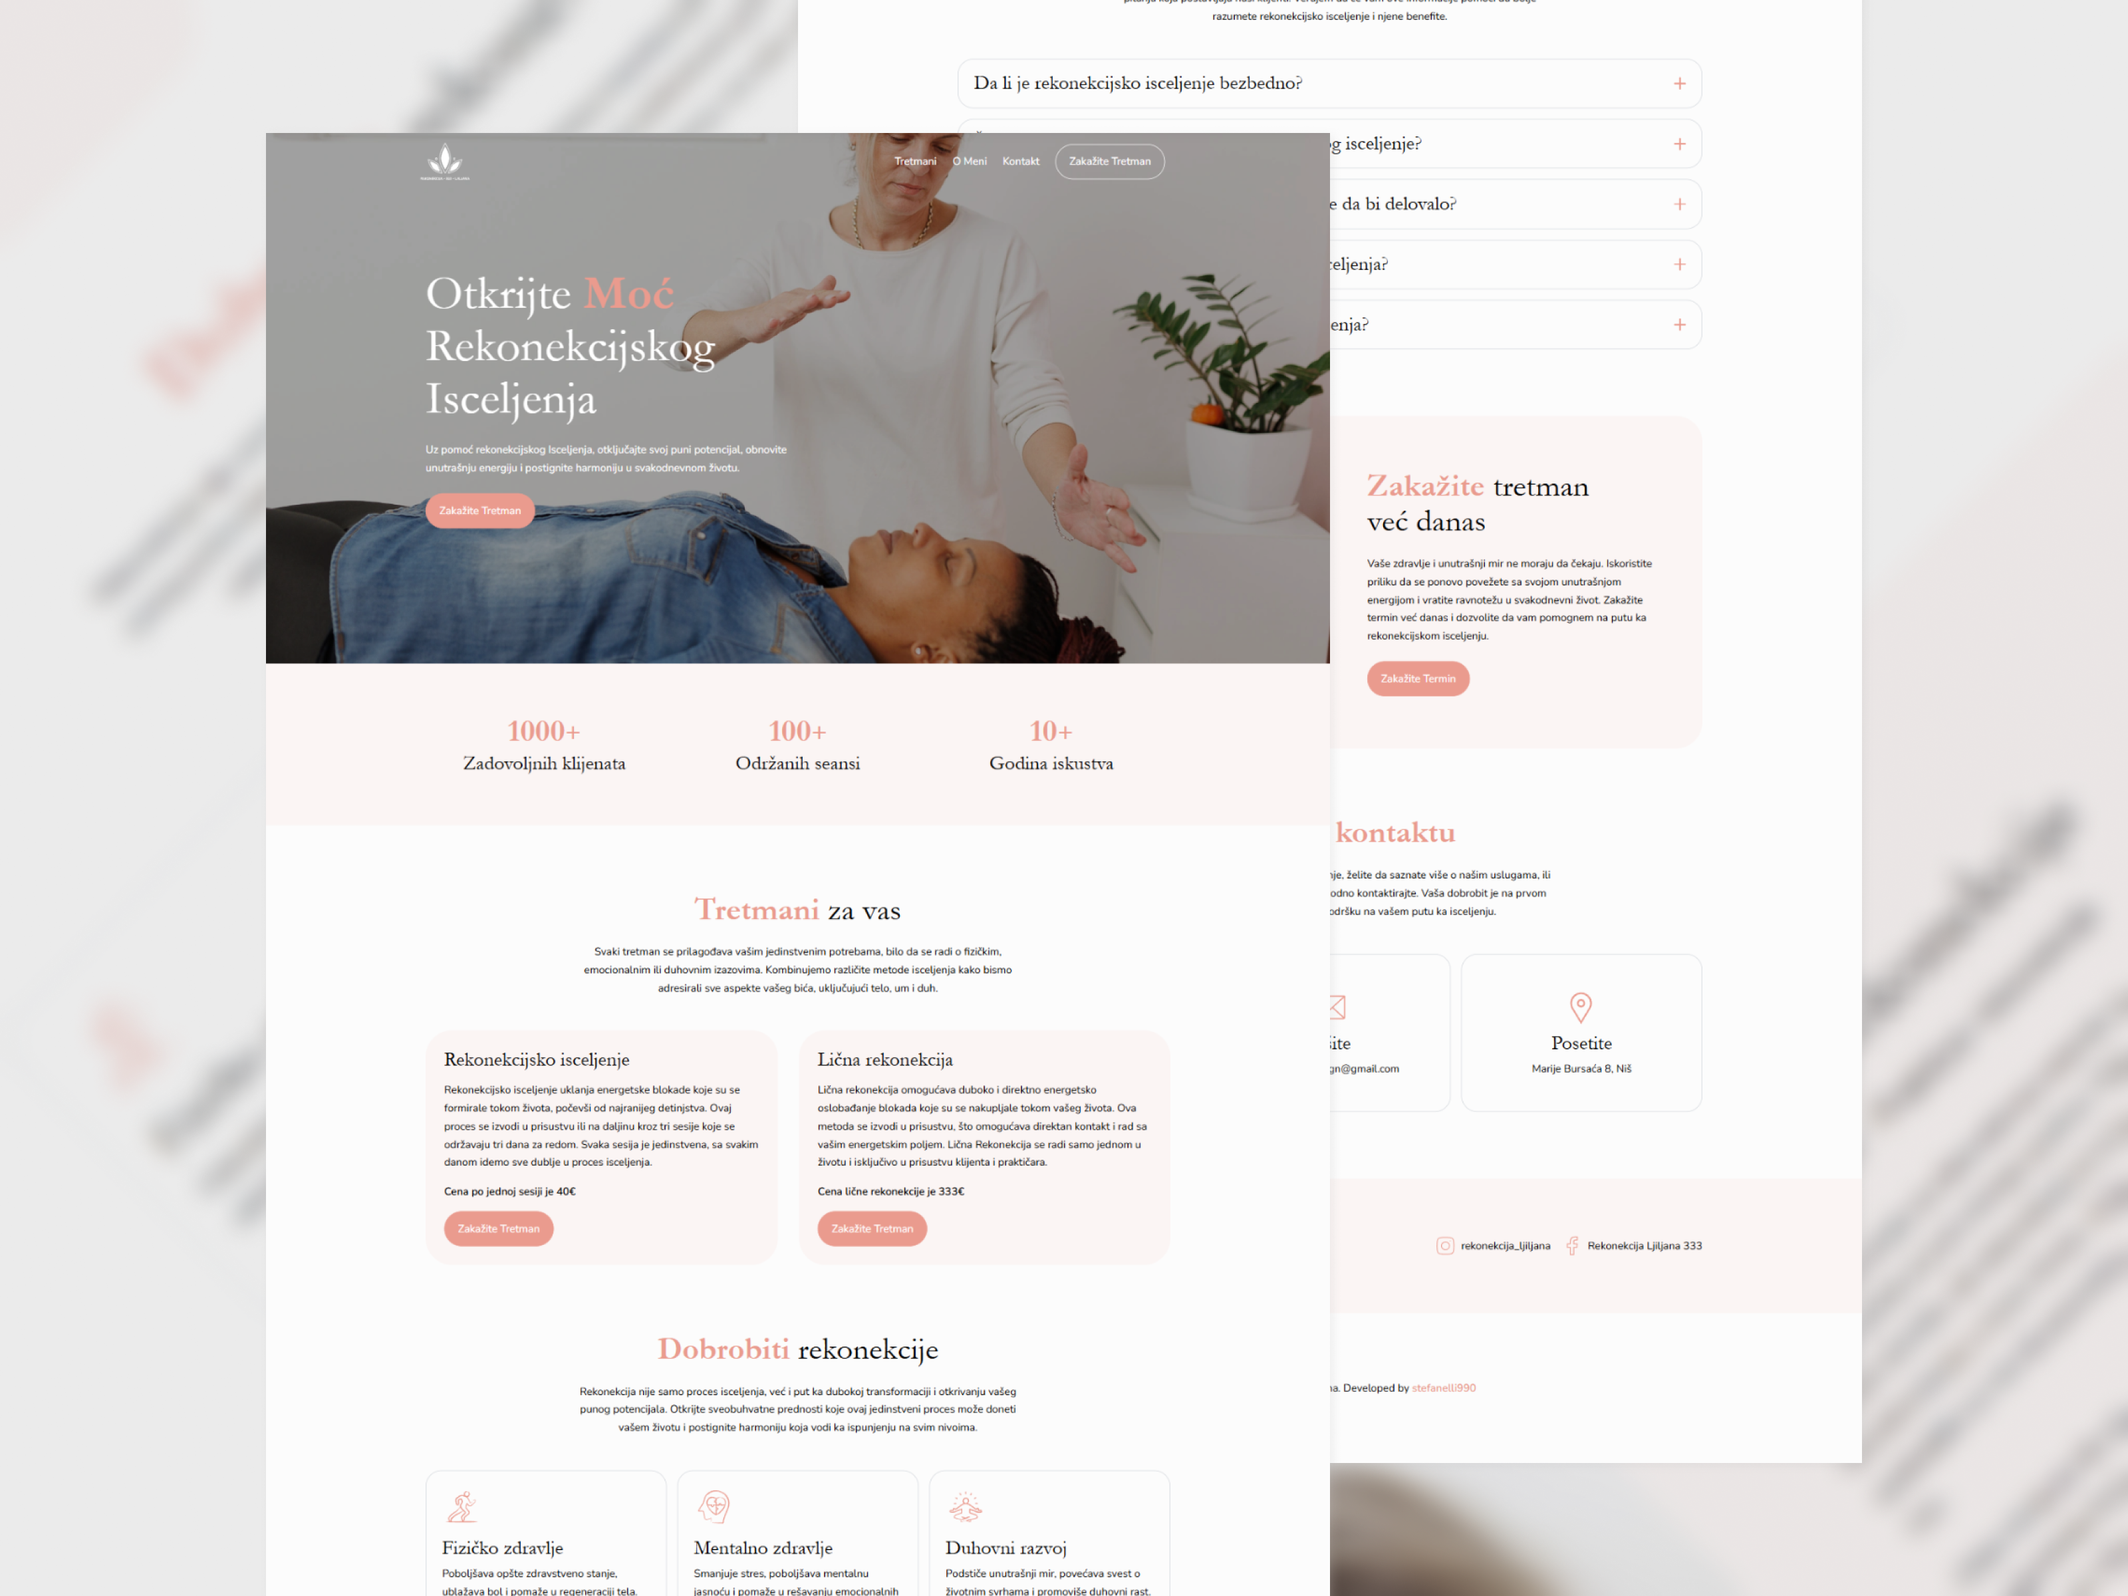
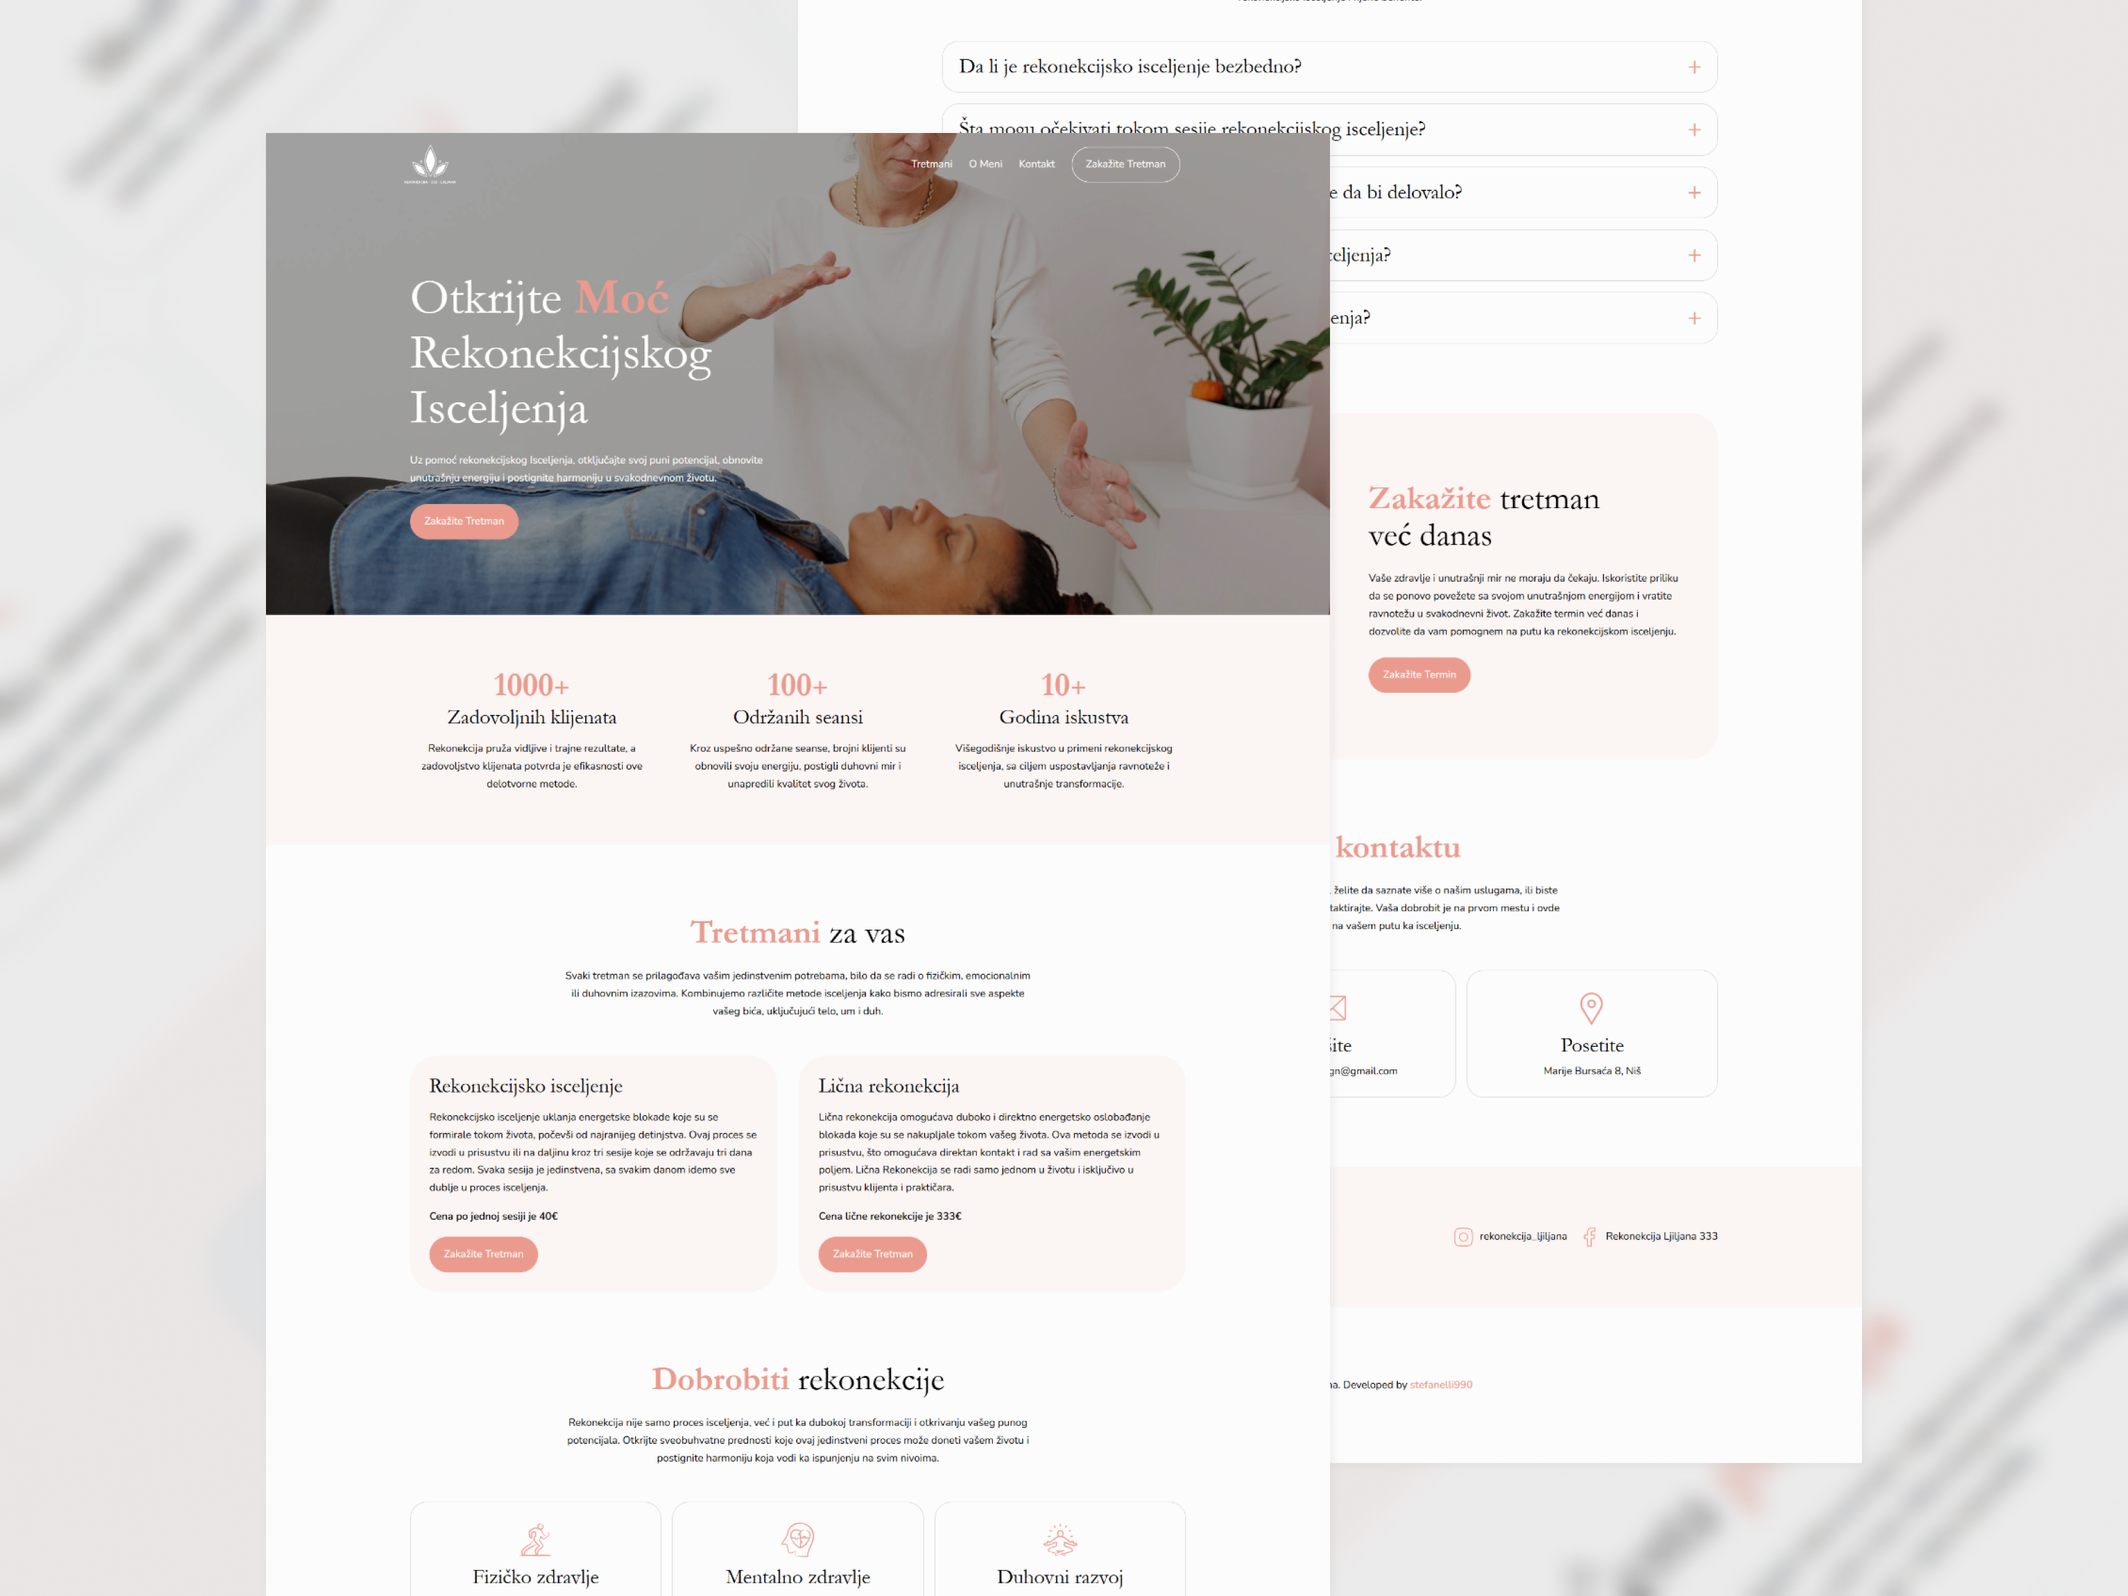
fixed responsive

diff --git a/src/components/Navbar.jsx b/src/components/Navbar.jsx
@@ -1,30 +1,31 @@
 // Navbar jsx
 
+import logoImg from '../../public/logo-white.svg';
 import { navLinks } from "../data";
 
-export default function Navbar({ navbarClasses, logoStyle, navLinkClasses, btnClasses, hamburgerClasses, openMenu, isOpen, scrolled }) {
+export default function Navbar({ openMenu, isOpen }) {
 
   return (
-    <header className={`inset-x-0 z-10 duration-300 ${navbarClasses} ${scrolled ? "translate-y-0" : "-translate-y-full"}`}>
+    <header className="absolute inset-x-0 z-10">
         <div className="wrapper flex justify-between items-center mx-auto py-4">
                 <a href={"#hero"} className="cursor-pointer" aria-label="Go to Hero section">
-                <img className="w-[75px]" src={logoStyle} alt="Rekonekcija 333 Ljiljana Logo"/>
+                <img className="w-[75px]" src={logoImg} alt="Rekonekcija 333 Ljiljana Logo"/>
                 </a>
                 <nav>
-                <ul className={`hidden sm:flex space-x-6 items-center ${navLinkClasses}`}>
+                <ul className={`hidden sm:flex space-x-6 items-center`}>
                     {navLinks.map((navLink, index) => (
                     <li key={index}>
                         <a
                         href={`#${navLink.to}`}
                         aria-label={navLink.ariaLabel}
-                        className={`cursor-pointer  hover:text-primaryColor duration-200`}
+                        className="cursor-pointer text-white hover:text-primaryColor duration-200"
                         >
                         {navLink.name}
                         </a>
                     </li>
                     ))}
                     <li>
-                    <a href="tel:+381691162977" className={`btn ${btnClasses}`}>zakažite tretman</a>
+                    <a href="tel:+381691162977" className="btn btn-outline">zakažite tretman</a>
                     </li>
                 </ul>
                 </nav>
@@ -34,9 +35,9 @@ export default function Navbar({ navbarClasses, logoStyle, navLinkClasses, btnCl
                 aria-label="Toggle menu"
                 onClick={openMenu}
             >
-                <div className={`w-8 h-[2px] rounded-full transition-transform duration-300 ${hamburgerClasses} ${isOpen ? "rotate-45 translate-y-2.5" : ""}`}></div>
-                <div className={`w-8 h-[2px] rounded-full transition-transform duration-300 ${hamburgerClasses} ${isOpen ? "opacity-0" : ""}`}></div>
-                <div className={`w-8 h-[2px] rounded-full transition-transform duration-300 ${hamburgerClasses} ${isOpen ? "-rotate-45 -translate-y-2.5" : ""}`}></div>
+                <div className={`w-8 h-[2px]  rounded-full transition-transform duration-300 ${isOpen ? "rotate-45 translate-y-2.5 bg-darkColor" : "bg-white"}`}></div>
+                <div className={`w-8 h-[2px]  rounded-full transition-transform duration-300 ${isOpen ? "opacity-0 bg-darkColor" : "bg-white"}`}></div>
+                <div className={`w-8 h-[2px]  rounded-full transition-transform duration-300 ${isOpen ? "-rotate-45 -translate-y-2.5 bg-darkColor" : "bg-white"}`}></div>
             </button>
         </div>
     </header>

diff --git a/src/data.js b/src/data.js
@@ -16,25 +16,8 @@ export const navLinks = [
     { name: "Kontakt", to: "kontakt" },
   ];
 
-export const reconnection = [
-    {
-      reconnectionTitle: "Pojam rekonekcije",
-      reconnectionDesc:
-        "Rekonekcija je metoda energetskog isceljenja koju je razvio Erik Perl. Ova tehnika se fokusira na ponovnu povezanost sa univerzalnom energijom i vraćanje tela u stanje ravnoteže i zdravlja. Prema ovoj metodi, rekonekcija omogućava telo da se prilagodi višoj frekvenciji energije, što može dovesti do fizičkog, mentalnog i duhovnog isceljenja.",
-      
-      alt: "Photo Shooting image",
-    },
-    {
-      reconnectionTitle: "Delovanje rekonekcije",
-      reconnectionDesc:
-        "Tokom sesije rekonekcije, koriste se specifične energetske frekvencije  kako bi podstakao vaš proces isceljenja. Ove frekvencije deluju na otklanjanju energetskih blokada i omogućavaju vam dublju povezanost sa univerzumom i vašom unutrašnjom prirodom. Sesije su neinvazivne i mogu se obavljati i uživo i na daljinu.",
-     
-      alt: "Video Shooting image",
-    },
-  ];
-
 export const counter = [
-  { counterNumber: 1000, counterTitle: 'Zadovoljnih klijenata', counterDesc: 'Rekonekcija donosi vidljive rezultate, a zadovoljstvo klijenata potvrda je efikasnosti metode.'},
+  { counterNumber: 1000, counterTitle: 'Zadovoljnih klijenata', counterDesc: 'Rekonekcija pruža vidljive i trajne rezultate, a zadovoljstvo klijenata potvrda je efikasnosti ove delotvorne metode.'},
   { counterNumber: 100, counterTitle: 'Održanih seansi', counterDesc: 'Kroz uspešno održane seanse, brojni klijenti su obnovili svoju energiju, postigli duhovni mir i unapredili kvalitet svog života.'},
   { counterNumber: 10, counterTitle: 'Godina iskustva', counterDesc: 'Višegodišnje iskustvo u primeni rekonekcijskog isceljenja, sa ciljem uspostavljanja ravnoteže i unutrašnje transformacije.'}
 ]  

diff --git a/src/App.jsx b/src/App.jsx
@@ -1,6 +1,6 @@
 // App.jsx
 
-import { useState, useEffect } from "react";
+import { useState } from "react";
 import Hero from "./components/Hero";
 import Treatmants from "./components/Treatmants";
 import Benefits from "./components/Benefits";
@@ -16,30 +16,7 @@ import Navbar from "./components/Navbar";
 
 
 function App() {
-  const [scrolled, setScrolled] = useState(false);
   const [isMenuOpen, setIsMenuOpen] = useState(false);
-
-  useEffect(() => {
-    const heroSection = document.getElementById("hero");
-
-    const handleScroll = () => {
-      const heroHeight = heroSection ? heroSection.offsetHeight : 0;
-      const scrollPosition = window.scrollY;
-  
-      // Check if the user has scrolled to within 100px from the end of the hero section
-      if (scrollPosition >= heroHeight - 100) {
-        setScrolled(true);
-      } else {
-        setScrolled(false);
-      }
-    };
-
-    window.addEventListener("scroll", handleScroll);
-
-    return () => {
-      window.removeEventListener("scroll", handleScroll);
-    };
-  }, []);
 
   // open menu
   const openMenu = () => {
@@ -52,10 +29,7 @@ function App() {
 
   return (
     <>
-      {!scrolled && (
-        <Navbar navbarClasses={'absolute'} logoStyle={'/logo-white.svg'} scrolled={true} navLinkClasses={'text-white'} btnClasses={'btn-outline'} hamburgerClasses={'bg-white'} openMenu={openMenu} isOpen={isMenuOpen}/>
-      )}
-      <Navbar navbarClasses={'fixed bg-offWhite shadow-navbar'} scrolled={scrolled} logoStyle={'/logo-primary.svg'} navLinkClasses={'text-darkColor'} btnClasses={'btn-primary'} hamburgerClasses={'bg-darkColor'} openMenu={openMenu} isOpen={isMenuOpen}/>
+      <Navbar openMenu={openMenu} isOpen={isMenuOpen}/>
       <Menu isOpen={isMenuOpen} closeMenu={closeMenu} />
       <main>
         <Hero />

diff --git a/src/components/Benefits.jsx b/src/components/Benefits.jsx
@@ -1,4 +1,5 @@
 import { benefits } from "../data";
+import Card from "./Card";
 import SectionTitle from "./SectionTitle";
 
 export default function Benefits() {
@@ -13,14 +14,7 @@ export default function Benefits() {
         </SectionTitle>
         <div className="grid sm:grid-cols-2 lg:grid-cols-3 gap-4">
           {benefits.map((item, index) => (
-            <div
-              className="text-center flex items-center flex-col sm:text-left sm:items-start border border-gray-300 rounded-3xl p-6"
-              key={index}
-            >
-              <img className="w-[60px]" src={item.benefitIcon} alt="" />
-              <h3 className="pt-4 pb-2">{item.benefitTitle}</h3>
-              <p>{item.benefitDesc}</p>
-            </div>
+            <Card key={index} icon={item.benefitIcon} title={item.benefitTitle} desc={item.benefitDesc}/>
           ))}
         </div>
       </div>

diff --git a/src/components/Hero.jsx b/src/components/Hero.jsx
@@ -5,7 +5,7 @@ export default function Hero() {
     <section id="hero" className="relative">
         <img className='absolute inset-0 w-full h-full object-cover -z-[2]' src={heroBg} alt="" />
         <div className="bg-black/35 absolute inset-0 -z-[1]"></div>
-        <div className="wrapper flex items-center text-center justify-center min-h-screen text-white sm:text-left sm:justify-start">
+        <div className="wrapper flex items-center min-h-screen text-white ">
             <div className="max-w-[400px] sm:max-w-[550px] sm:pt-[150px] sm:pb-[60px]">
                 <h1>Otkrijte <span className='text-primaryColor font-bold'>Moć</span> Rekonekcijskog Isceljenja</h1>
                 <p className="my-6">Uz pomoć rekonekcijskog Isceljenja, otključajte svoj puni potencijal, obnovite unutrašnju energiju i postignite harmoniju u svakodnevnom životu.</p>

diff --git a/src/components/Contact.jsx b/src/components/Contact.jsx
@@ -1,4 +1,5 @@
 import { contactInformations } from "../data";
+import Card from "./Card";
 import SectionTitle from "./SectionTitle";
 
 export default function Contact() {
@@ -12,11 +13,7 @@ export default function Contact() {
         </SectionTitle>
         <div className="grid md:grid-cols-3 gap-4">
           {contactInformations.map((item, index) => (
-            <a href={item.contactLink} key={index} className="space-y-2 text-center border border-gray-300 py-[50px] rounded-3xl">
-            <img className="inline" src={item.contactIcon} alt="" />
-            <h3>{item.contactTitle}</h3>
-            <p>{item.contactInformation}</p>
-          </a>
+          <Card key={index} link={item.contactLink} icon={item.contactIcon} title={item.contactTitle} desc={item.contactInformation}/>
           ))}
         </div>
       </div>

diff --git a/src/components/About.jsx b/src/components/About.jsx
@@ -4,11 +4,11 @@ export default function About() {
   return (
     <section id="o-meni" className='bg-primaryColor-light'>
       <div className="wrapper py-[75px] lg:py-[100px]">
-        <div className='flex flex-col items-center md:flex-row gap-8 xl:gap-24'>
+        <div className='flex flex-col items-center md:flex-row gap-8 xl:gap-16'>
         <div className='md:w-1/2 h-[500px] rounded-[40px] overflow-hidden'>
           <img className='object-cover w-full h-full' src={aboutImg} alt="" />
         </div>
-        <div className='text-center md:text-left md:w-1/2'>
+        <div className='md:w-1/2'>
           <h2 className='mb-4'>Moj <span className='text-primaryColor font-bold'>put</span> rekonekcije</h2>
           <p className='text-xl mb-6'>
             Ljiljana Medović - Prakticar rekonekcije

diff --git a/src/components/Connect.jsx b/src/components/Connect.jsx
@@ -4,9 +4,9 @@ export default function Connect() {
   return (
     <section className="bg-primaryColor-light py-[50px] lg:py-[75px]">
         <div className="wrapper">
-            <div className="flex flex-col md:flex-row items-center justify-center gap-6 md:justify-between">
+            <div className="flex flex-wrap items-center justify-between gap-6">
                 <h2><span className="text-primaryColor font-bold">Povežimo</span> se</h2>
-                <div className="flex flex-wrap justify-center gap-4">
+                <div className="flex flex-wrap  gap-4">
                 {socialNetworks.map((item,index) => (
                     <div key={index}>
                         <div className="flex items-center gap-2">

diff --git a/src/components/Treatmants.jsx b/src/components/Treatmants.jsx
@@ -12,7 +12,7 @@ export default function Treatmants() {
         </SectionTitle>
             <div className="flex flex-col md:flex-row gap-4 md:gap-8">
                 {treatmants.map((item, index) => (
-                    <div key={index} className="bg-primaryColor-light rounded-[36px] md:rounded-[40px] flex flex-col text-center items-center justify-between gap-4 p-6 md:p-7 sm:text-left sm:items-start">
+                    <div key={index} className="bg-primaryColor-light rounded-[36px] md:rounded-[40px] flex flex-col justify-between gap-4 p-6 md:p-7">
                         <h3>{item.treatmantTitle}</h3>
                         <p>{item.treatmantDesc}</p>
                         <div>

diff --git a/src/index.css b/src/index.css
@@ -13,10 +13,10 @@ body {
 
 @layer base {
   html {
-    @apply scroll-smooth scroll-pt-[100px];
+    @apply scroll-smooth;
   }
   body {
-    @apply bg-offWhite font-sans;
+    @apply bg-offWhite font-sans text-[15px];
   }
   h1,
   h2,
@@ -33,6 +33,7 @@ body {
   h3 {
     @apply text-3xl;
   }
+  
 }
 
 @layer components {
@@ -46,7 +47,7 @@ body {
     @apply bg-primaryColor text-white border-primaryColor hover:text-primaryColor;
   }
   .btn-outline {
-    @apply bg-transparent border border-white hover:bg-primaryColor hover:text-white hover:border-primaryColor;
+    @apply bg-transparent border text-white border-white hover:bg-primaryColor hover:border-primaryColor;
   }
 }
 

diff --git a/src/components/Cta.jsx b/src/components/Cta.jsx
@@ -5,7 +5,7 @@ export default function Cta() {
     <section>
         <div className="wrapper" >
           <div className="bg-primaryColor-light flex items-center flex-col md:flex-row-reverse rounded-[24px] lg:rounded-[40px] overflow-hidden">
-            <div className="md:w-1/2 p-8 lg:p-14 md:py-0 flex flex-col gap-6 items-center md:items-start text-center md:text-left">
+            <div className="md:w-1/2 p-8 lg:p-14 md:py-0 flex flex-col gap-6 items-start">
             <div className='lg:max-w-sm'>
             <h2 className=''><span className='font-bold text-primaryColor'>Zakažite</span> tretman već danas</h2>
             </div>

diff --git a/src/components/Footer.jsx b/src/components/Footer.jsx
@@ -3,7 +3,7 @@ export default function Footer() {
   const currentYear = new Date().getFullYear()
 
   return (
-    <footer className="wrapper my-[50px] lg:my-[100px] text-center">
+    <footer className="wrapper my-[50px] lg:my-[100px] md:text-center">
         <p>&copy; {currentYear} Rekonekcija 333 Ljiljana. Developed by <a href="https://github.com/stefanelli990" target="_blank" className="text-primaryColor font-semibold">stefanelli990</a></p>
     </footer>
   )
